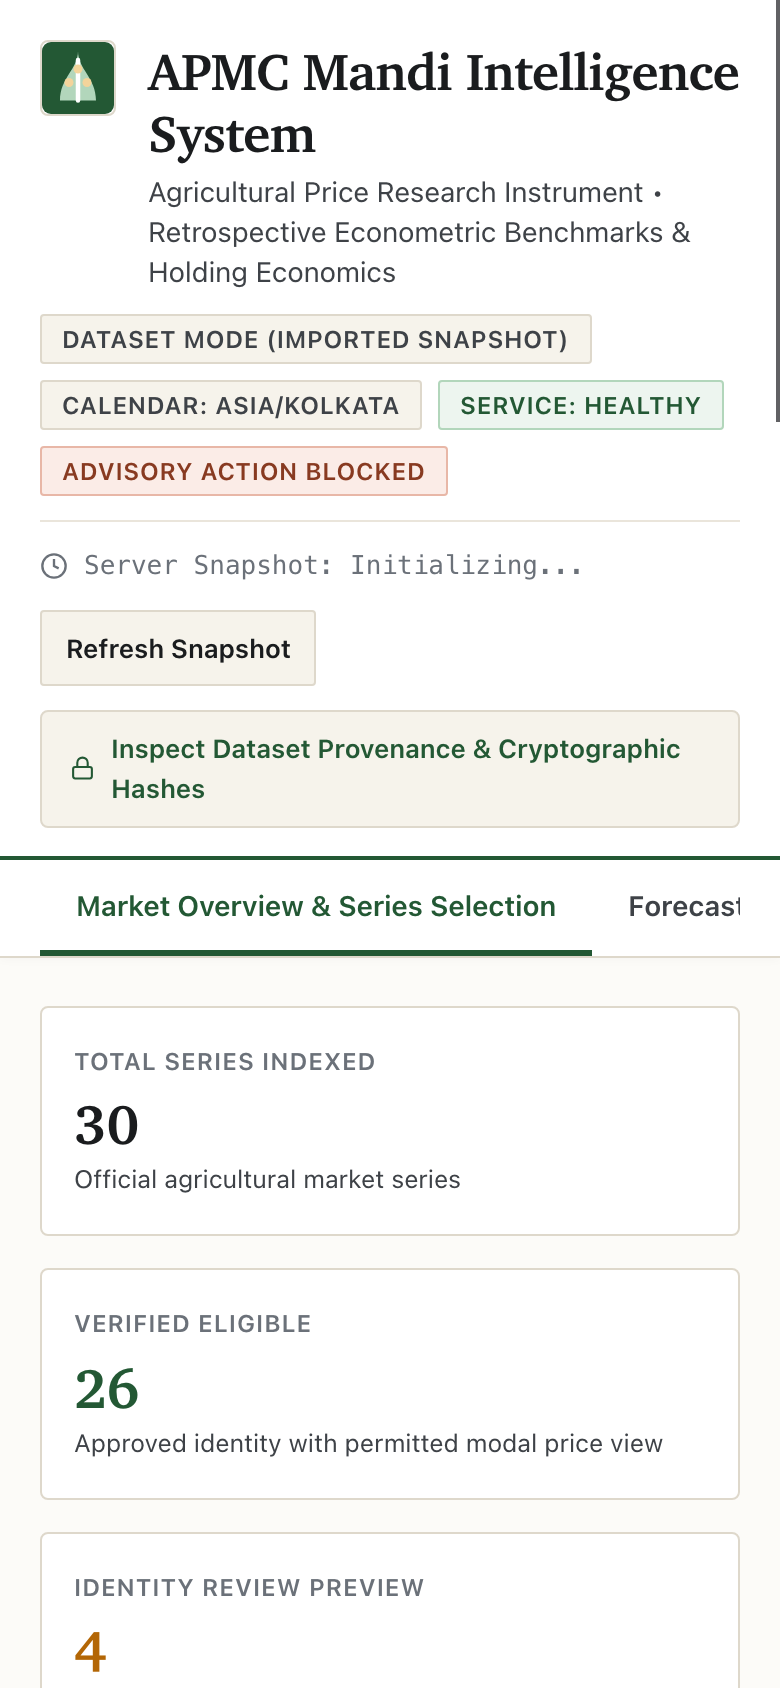
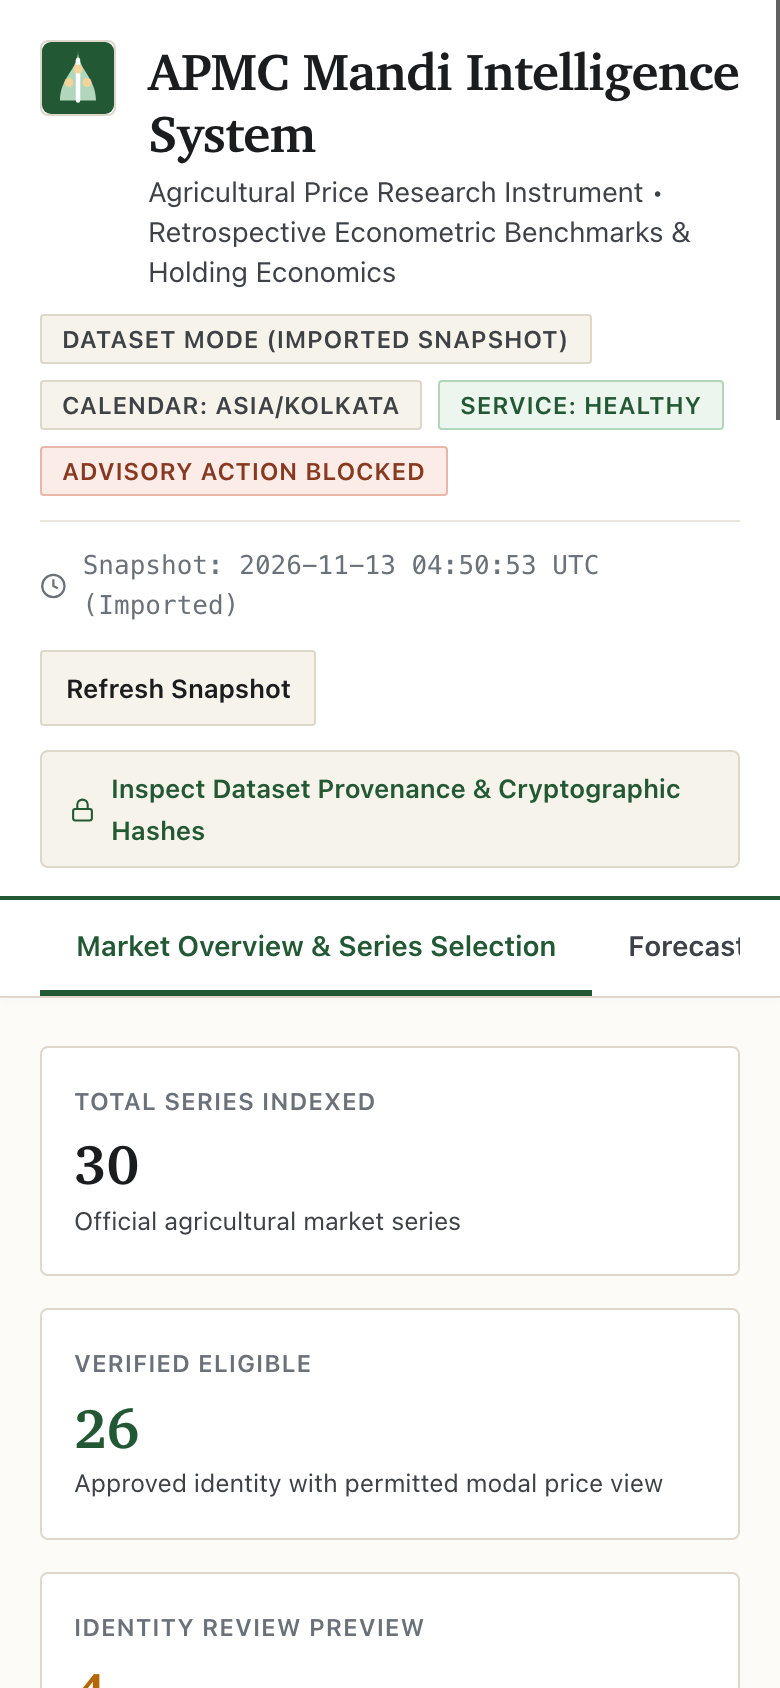
fix(frontend-service): auto-compile index on missing snapshot and fix calculator error state

diff --git a/src/static/app.js b/src/static/app.js
@@ -999,6 +999,12 @@
         elements.staleBanner.classList.remove('visible');
         elements.staleBanner.style.display = 'none';
         elements.btnExportReceipt.disabled = false;
+      } else {
+        const errMsg = resp.error?.message || resp.message || 'Evaluation rejected by safety gate';
+        elements.econCalcStatus.textContent = `Error: ${errMsg}`;
+        elements.econCalcStatus.style.color = 'var(--color-soil-rust)';
+        elements.staleBanner.style.display = 'none';
+        elements.btnExportReceipt.disabled = true;
       }
     } catch (err) {
       if (thisRequestId !== state.currentEvaluationRequestId) return;

diff --git a/src/service.py b/src/service.py
@@ -103,6 +103,40 @@ class MandiMarketService:
 
     def _load_latest_index(self) -> None:
         """Loads and indexes latest market observations with bounded resource and type guards."""
+        default_index_path = REPO_ROOT / "data" / "imported_snapshots" / "latest_observation_index.json"
+        if not self.latest_index_path.exists() and self.latest_index_path == default_index_path:
+            # Auto-compile index from operational_sources.json if present and default snapshot missing
+            try:
+                op_cfg_path = REPO_ROOT / "data" / "reference" / "operational_sources.json"
+                if op_cfg_path.exists():
+                    from src.live_price_ingestion import (
+                        LivePriceIngestionClient,
+                        DataMode,
+                        publish_latest_observation_index,
+                    )
+                    with open(op_cfg_path, "r", encoding="utf-8") as f:
+                        cfg = json.load(f)
+                    sources = cfg.get("sources", [])
+                    target_files = [
+                        str(REPO_ROOT / s["file_path"]) if not os.path.isabs(s["file_path"]) else s["file_path"]
+                        for s in sources
+                        if s.get("role") == "LATEST_SNAPSHOT" and os.path.exists(
+                            str(REPO_ROOT / s["file_path"]) if not os.path.isabs(s["file_path"]) else s["file_path"]
+                        )
+                    ]
+                    if target_files:
+                        self.latest_index_path.parent.mkdir(parents=True, exist_ok=True)
+                        client = LivePriceIngestionClient(
+                            data_mode=DataMode.FILE_IMPORT,
+                            snapshots_root=str(self.latest_index_path.parent),
+                        )
+                        campaign = client.execute_file_import(file_path=target_files)
+                        publish_latest_observation_index(
+                            campaign, output_path=str(self.latest_index_path)
+                        )
+            except Exception as ex:
+                logger.warning("Auto-generation of latest observation index failed: %s", ex)
+
         if not self.latest_index_path.exists():
             self.index_loaded = False
             self.index_error = "Market price index file not found"

diff --git a/tests/test_api.py b/tests/test_api.py
@@ -11,7 +11,7 @@ import json
 from pathlib import Path
 import threading
 import time
-from typing import Any, Dict, Tuple
+from typing import Any, Dict, Optional, Tuple
 from wsgiref.simple_server import make_server
 import pytest
 
